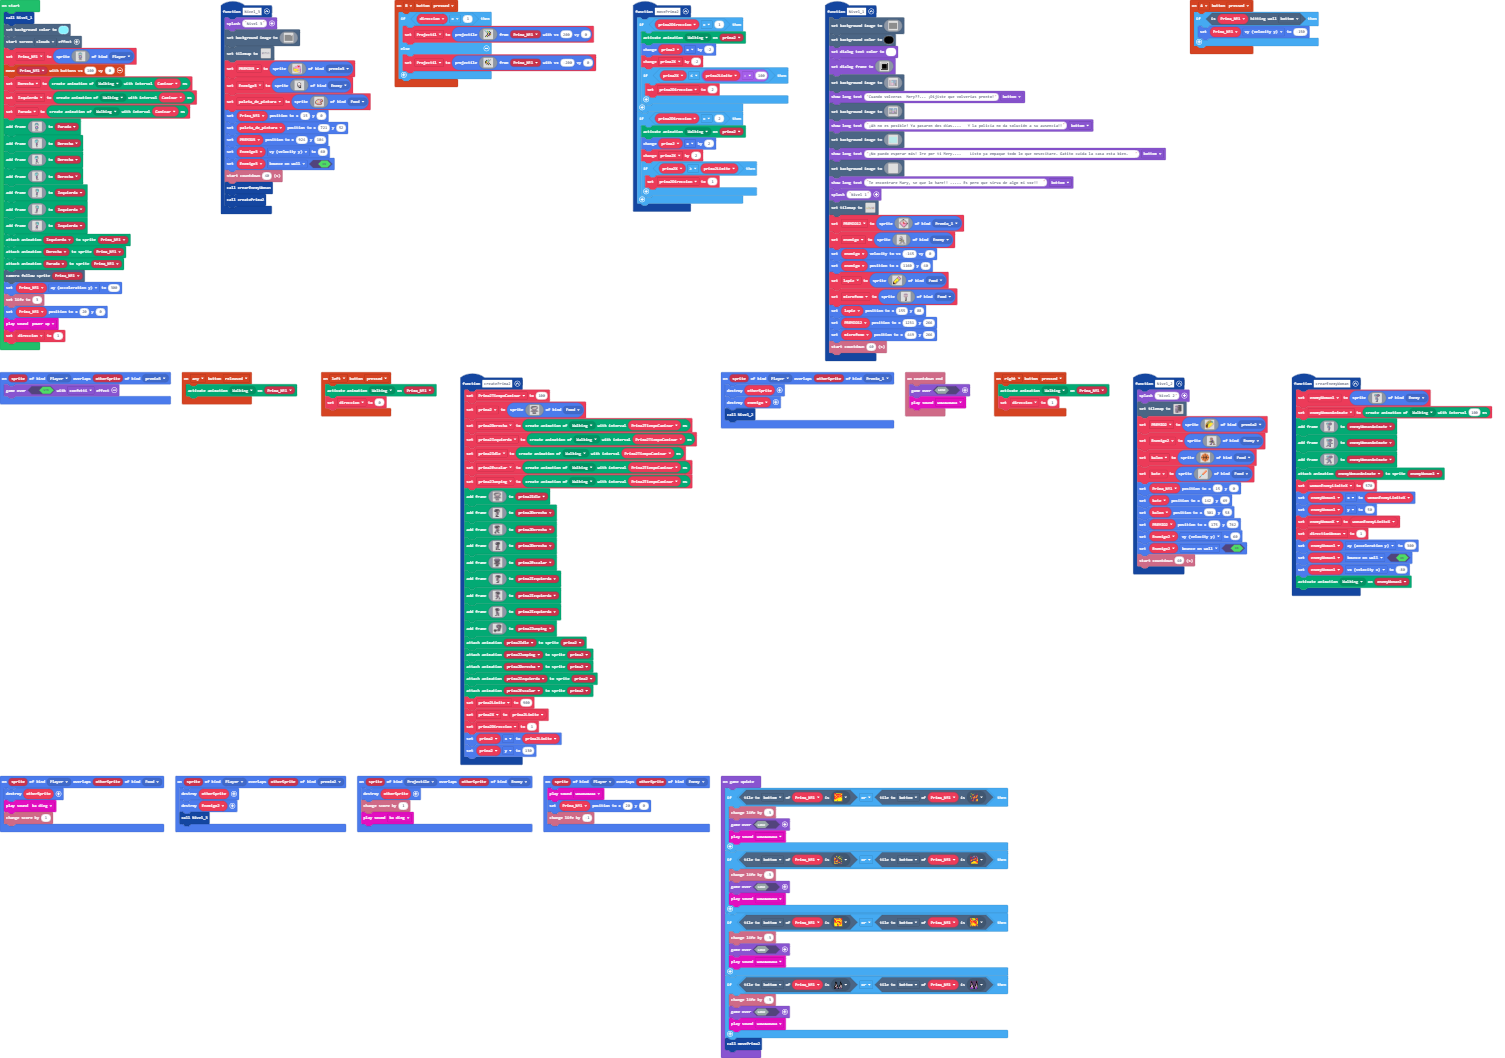
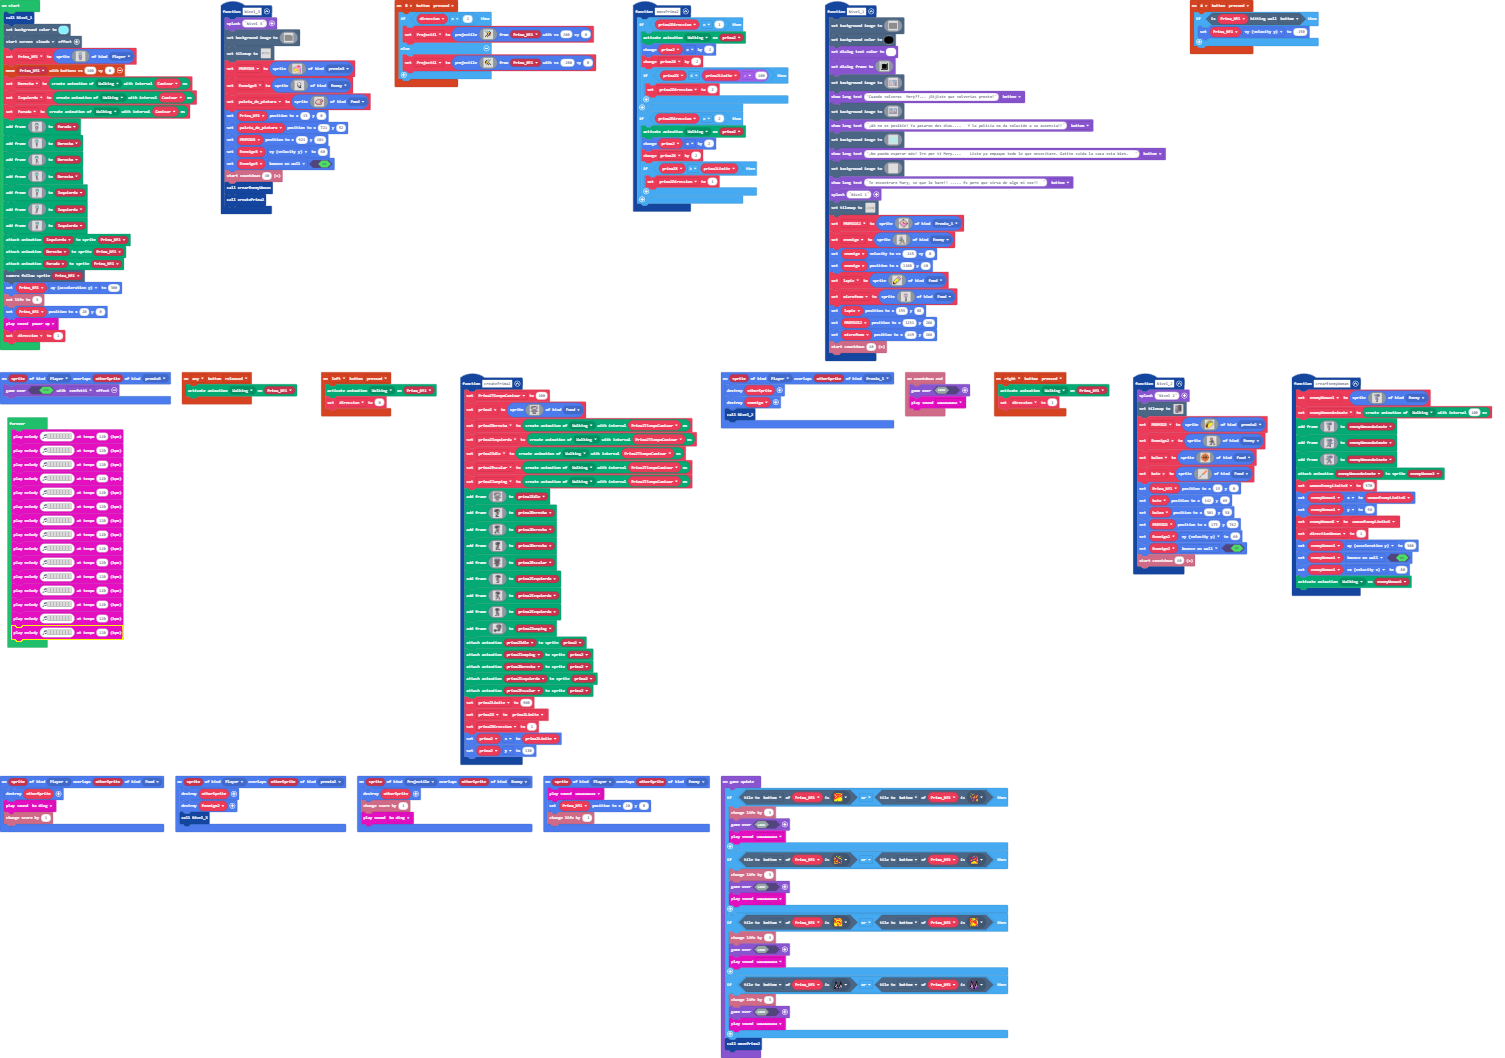
Musica

Changed region(s): [[0.0, 0.3743, 0.0937, 0.6238]]

diff --git a/main.ts b/main.ts
@@ -2532,3 +2532,20 @@ game.onUpdate(function () {
     }
     movePrima2()
 })
+forever(function () {
+    music.playMelody("- - - - - - - - ", 120)
+    music.playMelody("- - - - - - - - ", 120)
+    music.playMelody("- - - - - - - - ", 120)
+    music.playMelody("- - - - - - - - ", 120)
+    music.playMelody("- - - - - - - - ", 120)
+    music.playMelody("- - - - - - - - ", 120)
+    music.playMelody("- - - - - - - - ", 120)
+    music.playMelody("- - - - - - - - ", 120)
+    music.playMelody("- - - - - - - - ", 120)
+    music.playMelody("- - - - - - - - ", 120)
+    music.playMelody("- - - - - - - - ", 120)
+    music.playMelody("- - - - - - - - ", 120)
+    music.playMelody("- - - - - - - - ", 120)
+    music.playMelody("- - - - - - - - ", 120)
+    music.playMelody("- - - - - - - - ", 120)
+})
